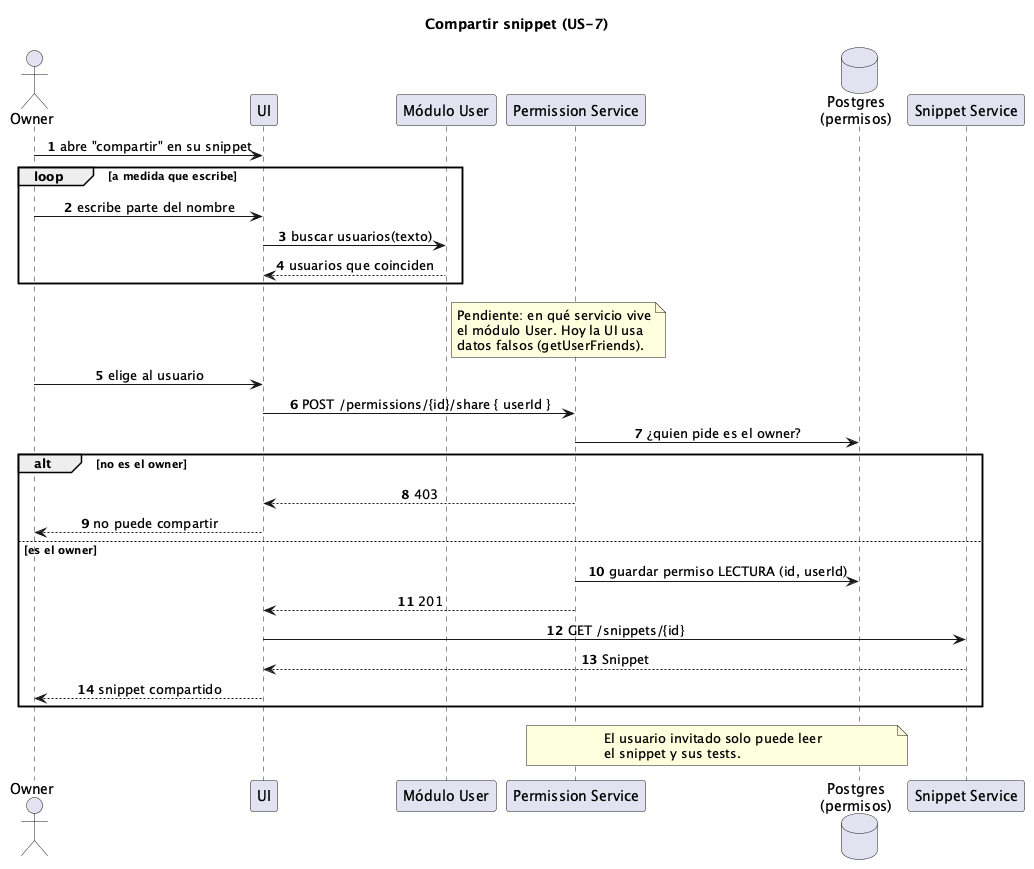
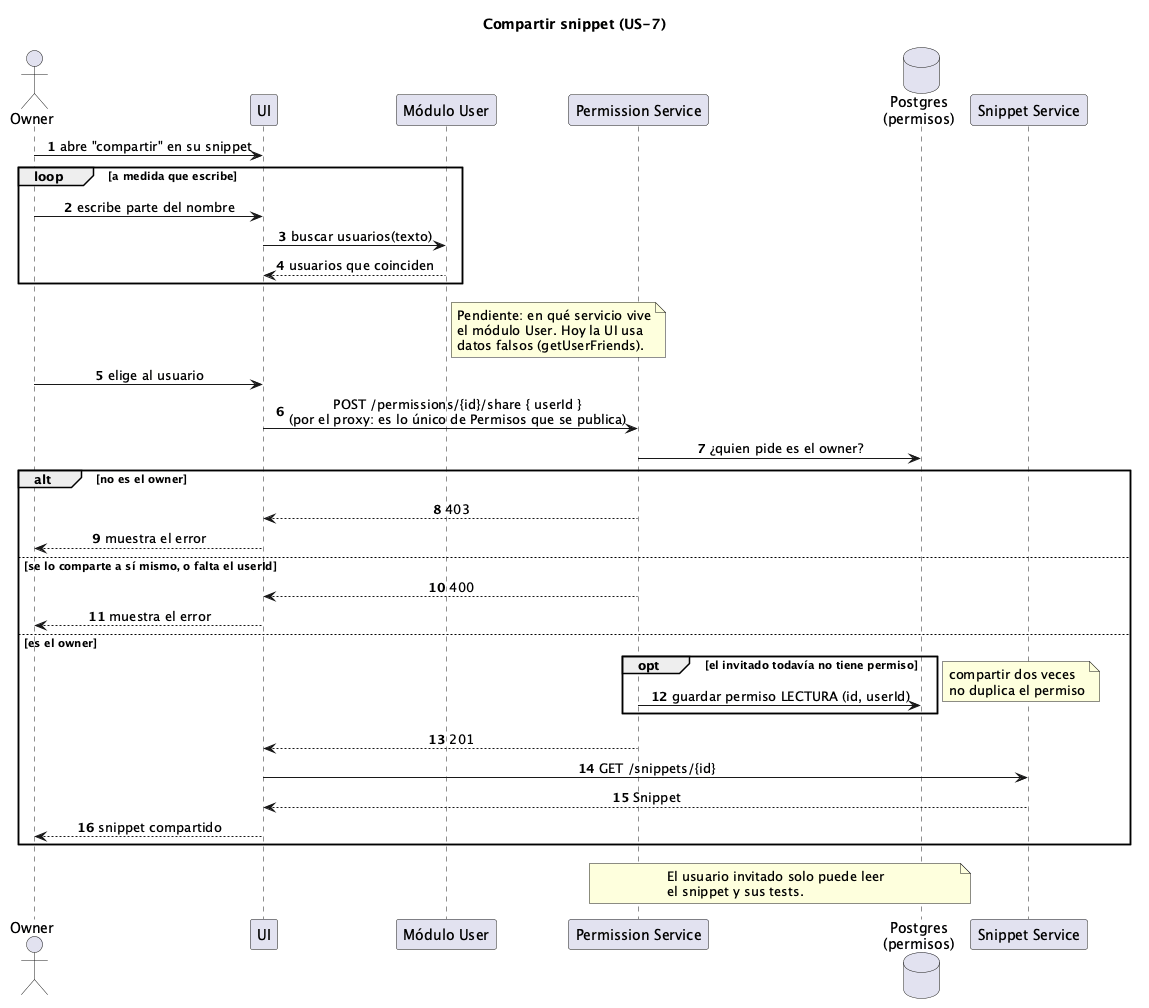
docs: actualiza la documentación después de la verificación (#53)
- El proxy publica de Permisos solo compartir: tabla de rutas y vista de despliegue.
- Compartir figura implementado; su diagrama muestra el 400 y que no duplica.
- Diagrama nuevo de borrar snippet. La vista de despliegue suma certbot.

Refs: #51, MartinaCousido/SnippetSearcher-infra#31

diff --git a/README.md b/README.md
@@ -205,7 +205,7 @@ Las conexiones `memory` indican que, a nivel lógico, los módulos se llaman com
 
 ### Vista de despliegue
 ![Vista de despliegue](docs/diagramas/componentes-despliegue.png)
-Todo entra por el **proxy** (nginx), con HTTPS: le pasa `/` a la UI, `/api/permissions/` a Permisos y el resto de `/api/` a Snippets. Es el único servicio con puertos públicos. Ver [Contrato con la UI](#contrato-con-la-ui).
+Todo entra por el **proxy** (nginx), con HTTPS: le pasa `/` a la UI, el pedido de compartir (`POST /api/permissions/{id}/share`) a Permisos y el resto de `/api/` a Snippets. Es el único servicio con puertos públicos. El servicio `certbot` le consigue y le renueva el certificado de Let's Encrypt. Ver [Contrato con la UI](#contrato-con-la-ui).
 
 Cada módulo se despliega como un servicio independiente con API HTTP. Snippets y Permisos tienen **cada uno su propio Postgres**. El **código de los snippets no va a Postgres**: se guarda en un bucket, detrás de la interfaz `Snippet Storage`. Solo Snippets lo lee y lo escribe: a los servicios de lenguaje les manda el código en cada pedido.
 
@@ -218,7 +218,8 @@ Los flujos más importantes, en PlantUML dentro de [`docs/diagramas/flujos/`](do
 | [Crear snippet](docs/diagramas/flujos/secuencia-crear-snippet.puml) | US-1, US-3 | ✅ Implementado (falta el lint, #23) | Validación con regla, línea y columna; el código va al Asset Service; los metadatos y el owner se guardan en una transacción, y si falla se borra el archivo |
 | [Listar y ver](docs/diagramas/flujos/secuencia-listar-y-ver-snippet.puml) | US-5, US-6 | ✅ Implementado | Permisos dice qué snippets ve el usuario; 404 si no existe y 403 sin acceso |
 | [Actualizar snippet](docs/diagramas/flujos/secuencia-actualizar-snippet.puml) | US-2, US-4, US-16 | ✅ Implementado (faltan el lint, #23, y los tests automáticos, #21) | Solo el owner edita; misma validación que crear; si falla guardar el código, los metadatos no cambian; los tests corren después y no revierten el cambio |
-| [Compartir snippet](docs/diagramas/flujos/secuencia-compartir-snippet.puml) | US-7 | ⏳ Falta (SnippetPermission#14) | Búsqueda de usuarios a medida que se escribe; solo el owner comparte; el invitado solo lee |
+| [Compartir snippet](docs/diagramas/flujos/secuencia-compartir-snippet.puml) | US-7 | ✅ Implementado (falta la búsqueda de usuarios, módulo User) | Solo el owner comparte; el invitado solo lee; 400 si se lo comparte a sí mismo; compartir dos veces no duplica el permiso |
+| [Borrar snippet](docs/diagramas/flujos/secuencia-borrar-snippet.puml) | — | ✅ Implementado | Solo el owner borra; la fila y el archivo en una transacción; después los permisos, y si eso falla el snippet queda borrado igual |
 | [Linting automático](docs/diagramas/flujos/secuencia-linting-automatico.puml) | US-14, US-15 | ⏳ Falta (#18, #23) | Snippet Service se manda trabajo a sí mismo por Redis Streams; confirma el mensaje recién después de guardar y reintenta si falla. El formateo automático (US-12) sigue el mismo flujo |
 
 ![Crear snippet](docs/diagramas/flujos/secuencia-crear-snippet.png)
@@ -228,6 +229,8 @@ Los flujos más importantes, en PlantUML dentro de [`docs/diagramas/flujos/`](do
 ![Actualizar snippet](docs/diagramas/flujos/secuencia-actualizar-snippet.png)
 
 ![Compartir snippet](docs/diagramas/flujos/secuencia-compartir-snippet.png)
+
+![Borrar snippet](docs/diagramas/flujos/secuencia-borrar-snippet.png)
 
 ![Linting automático](docs/diagramas/flujos/secuencia-linting-automatico.png)
 
@@ -307,10 +310,11 @@ La UI tiene una sola variable, `BACKEND_URL`, y los tests de Cypress de la cáte
 | Ruta que pide la UI | Va a |
 |---|---|
 | `/api/snippets…`, `/api/rules…`, `/api/languages` | Snippet Service |
-| `/api/permissions…` | Permission Service |
+| `POST /api/permissions/{id}/share` | Permission Service |
 
 - El proxy **saca el `/api`**: los servicios exponen `/snippets`, `/permissions`, etc., sin prefijo. Así su código no depende de cómo se publiquen.
 - Todo lo que no empieza con `/api` va a la UI.
+- De Permission Service se publica solo compartir: el resto de sus endpoints los usa Snippet Service por la red interna. Tampoco se publica `/api/actuator` (el health de los servicios). Los dos responden 404 desde afuera (ver [Reverse proxy](https://github.com/MartinaCousido/SnippetSearcher-infra#reverse-proxy) en el repo de infra).
 
 | Dónde | Proxy | `BACKEND_URL` |
 |---|---|---|
